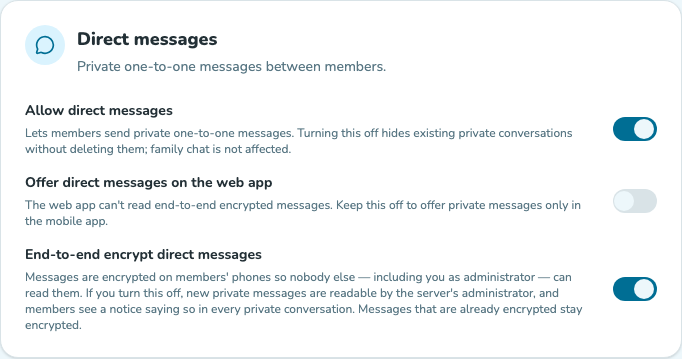
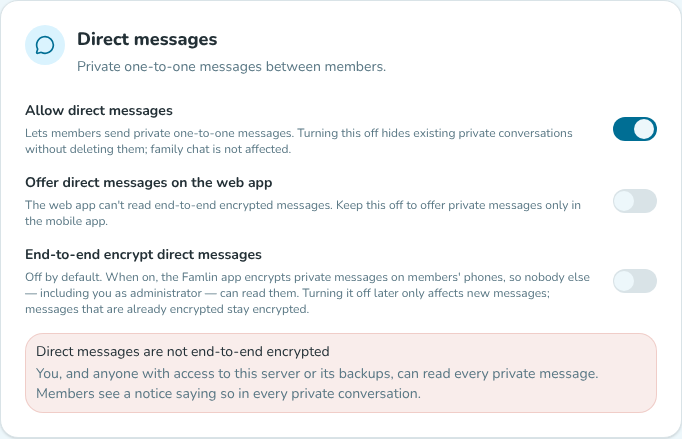
feat(dm): make end-to-end encryption opt-in and spell out the risks
The e2eDirectMessagesEnabled server setting now defaults to off.

- Admin: turning it on asks for confirmation, and the settings card always
  shows the risk of the current choice (off: the admin and anyone with server
  or backup access can read DMs; on: lost keys mean lost messages, nobody can
  recover them or moderate them).
- Mobile/web: stronger copy for the "not encrypted" notice, the encrypted
  banner and the backup reminder.
- Docs: admin settings (new screenshot), chat guide, security model and
  backend reference updated for the new default.

Claude-Session: https://claude.ai/code/session_01NEXBv94Gz5s2sL8YUyV1rP

diff --git a/backend/admin/src/components/ServerSettingsPage.tsx b/backend/admin/src/components/ServerSettingsPage.tsx
@@ -10,6 +10,8 @@ import { LANGUAGE_NAMES, SUPPORTED_LANGUAGES, type SupportedLanguage } from '../
 import { Icon, type IconName } from './Icon'
 import { BrandingSection } from './BrandingSection'
 import { SettingToggle } from '@famlin/ui/common/setting-toggle'
+import { ConfirmDialog } from '@famlin/ui/common/confirm-dialog'
+import { Alert, AlertDescription, AlertTitle } from '@famlin/ui/alert'
 import { SettingsCard } from './settings/SettingsCard'
 import { SettingsSaveBar } from './settings/SettingsSaveBar'
 import { useSettingsForm } from './settings/useSettingsForm'
@@ -35,6 +37,8 @@ export function ServerSettingsPage() {
   const [activeSection, setActiveSection] = useState<SectionId>(
     requested === 'branding' || requested === 'access' ? requested : 'general'
   )
+  // Turning end-to-end encryption on is confirmed first: lost keys mean lost messages.
+  const [confirmE2e, setConfirmE2e] = useState(false)
 
   if (loadError)
     return (
@@ -224,7 +228,43 @@ export function ServerSettingsPage() {
                   hint={t('serverSettings.e2eDirectMessagesEnabledHint')}
                   checked={form.e2eDirectMessagesEnabled}
                   disabled={!form.directMessagesEnabled}
-                  onCheckedChange={(checked) => updateField('e2eDirectMessagesEnabled', checked)}
+                  onCheckedChange={(checked) =>
+                    checked ? setConfirmE2e(true) : updateField('e2eDirectMessagesEnabled', false)
+                  }
+                />
+                {form.directMessagesEnabled && (
+                  <Alert
+                    className={
+                      form.e2eDirectMessagesEnabled
+                        ? 'border-warning/20 bg-warning/10'
+                        : 'border-destructive/20 bg-destructive/10'
+                    }
+                  >
+                    <AlertTitle>
+                      {t(
+                        form.e2eDirectMessagesEnabled
+                          ? 'serverSettings.e2eOnRiskTitle'
+                          : 'serverSettings.e2eOffRiskTitle'
+                      )}
+                    </AlertTitle>
+                    <AlertDescription>
+                      {t(
+                        form.e2eDirectMessagesEnabled ? 'serverSettings.e2eOnRiskBody' : 'serverSettings.e2eOffRiskBody'
+                      )}
+                    </AlertDescription>
+                  </Alert>
+                )}
+                <ConfirmDialog
+                  open={confirmE2e}
+                  onOpenChange={(open) => !open && setConfirmE2e(false)}
+                  title={t('serverSettings.e2eConfirmTitle')}
+                  description={t('serverSettings.e2eConfirmBody')}
+                  confirmLabel={t('serverSettings.e2eConfirm')}
+                  cancelLabel={t('common.cancel')}
+                  onConfirm={() => {
+                    updateField('e2eDirectMessagesEnabled', true)
+                    setConfirmE2e(false)
+                  }}
                 />
               </SettingsCard>
             )}

diff --git a/backend/tests/direct-message-settings.test.ts b/backend/tests/direct-message-settings.test.ts
@@ -36,7 +36,7 @@ beforeAll(async () => {
 })
 
 afterEach(async () => {
-  await patch({ directMessagesEnabled: true, directMessagesOnWeb: false, e2eDirectMessagesEnabled: true })
+  await patch({ directMessagesEnabled: true, directMessagesOnWeb: false, e2eDirectMessagesEnabled: false })
 })
 
 afterAll(async () => {
@@ -45,12 +45,12 @@ afterAll(async () => {
 
 describe('direct message settings', () => {
   it('has the documented defaults and round-trips through PATCH', async () => {
-    expect(await info()).toMatchObject({ directMessages: { enabled: true, web: false, encryption: true } })
+    expect(await info()).toMatchObject({ directMessages: { enabled: true, web: false, encryption: false } })
     const res = await patch({ directMessagesOnWeb: true })
     expect(res.statusCode).toBe(200)
     expect(res.json()).toMatchObject({ directMessagesEnabled: true, directMessagesOnWeb: true })
     const read = await app.inject({ method: 'GET', url: '/api/admin/settings', headers: authHeader(admin) })
-    expect(read.json()).toMatchObject({ directMessagesOnWeb: true, e2eDirectMessagesEnabled: true })
+    expect(read.json()).toMatchObject({ directMessagesOnWeb: true, e2eDirectMessagesEnabled: false })
   })
 
   it('survives export/restore', () => {
@@ -60,13 +60,17 @@ describe('direct message settings', () => {
   })
 
   it.each([
-    [{}, ['directMessages', 'e2eDirectMessages'], { enabled: true, web: false, encryption: true }],
+    [{}, ['directMessages'], { enabled: true, web: false, encryption: false }],
     [
-      { directMessagesOnWeb: true },
+      { e2eDirectMessagesEnabled: true },
+      ['directMessages', 'e2eDirectMessages'],
+      { enabled: true, web: false, encryption: true },
+    ],
+    [
+      { directMessagesOnWeb: true, e2eDirectMessagesEnabled: true },
       ['directMessages', 'e2eDirectMessages'],
       { enabled: true, web: true, encryption: true },
     ],
-    [{ e2eDirectMessagesEnabled: false }, ['directMessages'], { enabled: true, web: false, encryption: false }],
     [
       { directMessagesEnabled: false, directMessagesOnWeb: true },
       [],

diff --git a/backend/tests/e2e-dm.test.ts b/backend/tests/e2e-dm.test.ts
@@ -6,6 +6,7 @@ import path from 'path'
 import { prisma } from '../src/db.js'
 import { uploadsDir } from '../src/config.js'
 import { canReadUpload } from '../src/services/uploads.js'
+import { invalidateSettingsCache } from '../src/services/settings.js'
 import { buildTestApp, createUser, createGroup, addMember, authHeader } from './helpers.js'
 
 const b64 = (n: number, fill = 1) => Buffer.alloc(n, fill).toString('base64')
@@ -79,6 +80,13 @@ async function uploadEncrypted(user: typeof alice, data = Buffer.from('opaque-by
 
 beforeAll(async () => {
   app = await buildTestApp()
+  // End-to-end encryption is opt-in per server (off by default).
+  await prisma.setting.upsert({
+    where: { key: 'e2eDirectMessagesEnabled' },
+    create: { key: 'e2eDirectMessagesEnabled', value: 'true' },
+    update: { value: 'true' },
+  })
+  invalidateSettingsCache()
   alice = await createUser({ name: 'Alice' })
   bob = await createUser({ name: 'Bob' })
   carol = await createUser({ name: 'Carol' })

diff --git a/backend/src/services/settings.ts b/backend/src/services/settings.ts
@@ -240,7 +240,7 @@ async function loadAllSettings(): Promise<ServerSettings> {
     updateCheckEnabled: parseValue('updateCheckEnabled', map.get('updateCheckEnabled') ?? 'true'),
     directMessagesEnabled: parseValue('directMessagesEnabled', map.get('directMessagesEnabled') ?? 'true'),
     directMessagesOnWeb: parseValue('directMessagesOnWeb', map.get('directMessagesOnWeb') || 'false'),
-    e2eDirectMessagesEnabled: parseValue('e2eDirectMessagesEnabled', map.get('e2eDirectMessagesEnabled') ?? 'true'),
+    e2eDirectMessagesEnabled: parseValue('e2eDirectMessagesEnabled', map.get('e2eDirectMessagesEnabled') ?? 'false'),
     backupIncludeMedia: parseValue('backupIncludeMedia', map.get('backupIncludeMedia') ?? 'true'),
     backupEnabled: parseValue('backupEnabled', map.get('backupEnabled') || 'false'),
     backupSchedule: parseValue('backupSchedule', map.get('backupSchedule') || 'daily'),

diff --git a/web/src/pages/__tests__/ChatPage.directMessages.test.tsx b/web/src/pages/__tests__/ChatPage.directMessages.test.tsx
@@ -1064,7 +1064,9 @@ describe('server direct-message policy', () => {
 
     await userEvent.click(await screen.findByRole('button', { name: /Sophie/ }))
 
-    expect(await screen.findByText("Encryption is turned off by this server's administrator.")).toBeInTheDocument()
+    expect(
+      await screen.findByText(/This server's administrator, and anyone with access to the server/)
+    ).toBeInTheDocument()
     expect(screen.queryByText(/Messages sent from the web are not end-to-end encrypted/)).not.toBeInTheDocument()
   })
 

diff --git a/docs/developers/backend-reference.md b/docs/developers/backend-reference.md
@@ -34,7 +34,7 @@ Detailed backend implementation notes for contributors. Start with [Architecture
 | `invite-landing.ts` | `/invite/:token` (no `/api` prefix) | Public server-rendered HTML page a shared invite link opens; hands off to the app via `famlin://invite/:token?server=...`. Matches the app's design (logo, teal palette), is translated using the server's `defaultLanguage` setting, and shows App Store/Google Play buttons if `appStoreUrl`/`playStoreUrl` are set |
 | `landing.ts` | `/` (no `/api` prefix) | **Fallback only**: public server-rendered HTML landing page confirming the server is running, styled to match the invite landing page (shared HTML shell in `utils/html-page.ts`). Registered only when there is no `dist/web` build — normally the member-facing web app (`web/`) is served at `/` instead, with an SPA `index.html` fallback for client-side GET routes that aren't `/api/*`, `/uploads/*`, or `/admin*` (see the web-serving block in `app.ts`) |
 
-**Direct messages** extend `GET`/`POST /api/chat` without changing the installed family-chat routes. `GET /people` lists deduplicated people in at least one of the caller's current families. `POST /conversations` accepts a `participantIds` array with one member for a `PRIVATE` pair and returns the same canonical conversation for either participant under concurrent/repeated requests. `GET /conversations` combines enabled family chats with currently accessible private pairs; summaries are newest-activity first and redact unsupported encrypted inbox previews. `/conversations/unread`, `/conversations/:id/messages`, `/messages` and `/read` provide per-conversation state. Private access always requires explicit participation **and** at least one still-shared family; nonparticipants and pairs that no longer share a family receive 404, and admin status is never a bypass. Private messages accept `replyToMessageId` only for a target in that same conversation; unknown and cross-conversation ids return the same 404 without exposing whether a target exists. Private attachments must be fresh, caller-owned uploads and are scoped atomically to the conversation. Family reply/read/delete behavior remains unchanged. The server advertises `directMessages` in `/api/auth/server-info`. Three admin settings (`directMessagesEnabled` default on, `directMessagesOnWeb` default off, `e2eDirectMessagesEnabled` default on; all in `RESTORABLE_SETTING_KEYS`) shape it. `/server-info` lists the `directMessages` feature only while DMs are enabled and `e2eDirectMessages` only while encryption is also enabled (`activeServerFeatures()` in `serverFeatures.ts`), and carries `directMessages: {enabled, web, encryption}` (`web` and `encryption` are false while DMs are off). With DMs off, `/chat/people`, `POST /conversations` and every PRIVATE-conversation messages/read/encryption/delete route (including admins' delete) return 403 `errors.directMessagesDisabled`, while `GET /conversations` and `/conversations/unread` omit private conversations; nothing is deleted. With encryption off, a `v1` message returns 403 `errors.e2eDirectMessagesDisabled` and plaintext still works; existing encrypted messages are still served. `directMessagesOnWeb` is a client hint only and is deliberately not enforced.
+**Direct messages** extend `GET`/`POST /api/chat` without changing the installed family-chat routes. `GET /people` lists deduplicated people in at least one of the caller's current families. `POST /conversations` accepts a `participantIds` array with one member for a `PRIVATE` pair and returns the same canonical conversation for either participant under concurrent/repeated requests. `GET /conversations` combines enabled family chats with currently accessible private pairs; summaries are newest-activity first and redact unsupported encrypted inbox previews. `/conversations/unread`, `/conversations/:id/messages`, `/messages` and `/read` provide per-conversation state. Private access always requires explicit participation **and** at least one still-shared family; nonparticipants and pairs that no longer share a family receive 404, and admin status is never a bypass. Private messages accept `replyToMessageId` only for a target in that same conversation; unknown and cross-conversation ids return the same 404 without exposing whether a target exists. Private attachments must be fresh, caller-owned uploads and are scoped atomically to the conversation. Family reply/read/delete behavior remains unchanged. The server advertises `directMessages` in `/api/auth/server-info`. Three admin settings (`directMessagesEnabled` default on, `directMessagesOnWeb` default off, `e2eDirectMessagesEnabled` default off — opt-in, the admin UI confirms the key-loss risk before enabling; all in `RESTORABLE_SETTING_KEYS`) shape it. `/server-info` lists the `directMessages` feature only while DMs are enabled and `e2eDirectMessages` only while encryption is also enabled (`activeServerFeatures()` in `serverFeatures.ts`), and carries `directMessages: {enabled, web, encryption}` (`web` and `encryption` are false while DMs are off). With DMs off, `/chat/people`, `POST /conversations` and every PRIVATE-conversation messages/read/encryption/delete route (including admins' delete) return 403 `errors.directMessagesDisabled`, while `GET /conversations` and `/conversations/unread` omit private conversations; nothing is deleted. With encryption off, a `v1` message returns 403 `errors.e2eDirectMessagesDisabled` and plaintext still works; existing encrypted messages are still served. `directMessagesOnWeb` is a client hint only and is deliberately not enforced.
 
 Services live in `backend/src/services/` (`settings.ts`, `notifications.ts`, `invites.ts`, `users.ts`, `groups.ts`, `posts.ts`, `comments.ts`, `reactions.ts`, `onThisDay.ts`, `pagination.ts`, `apiTokens.ts`, plus three extension-point directories: the `media/` provider directory with `photoTimeline.ts` (in-memory merge of album + post photos with per-album caching) and `personFilter.ts` (shared person-filter logic); `notificationChannels/`; and `postTypes/` — see [Media integrations](#media-integrations), [Notifications](#notifications), and [Custom post types](#custom-post-types)). `src/events.ts` is the typed in-process domain event bus (`post.created`, `comment.created`, `reaction.added`, `chat.created`): routes emit facts after their write commits, and subscribers in `src/subscribers/` (registered idempotently by `buildApp()`) decide what those facts mean — every handler runs fire-and-forget and error-trapped, so a broken subscriber can never fail or slow the emitting request. The notifications subscriber (`src/subscribers/notifications.ts`) owns all "who gets told what" policy; routes know nothing about notifications. `src/jobs/onThisDay.ts` runs daily and `src/jobs/newAssets.ts` runs hourly (minute 15, both via `node-cron`, scheduled in `server.ts`, not `app.ts`, so the test suite's `buildApp()` never triggers them): onThisDay sends each group a notification about posts made on that day in a previous year, while newAssets diffs linked albums against their provider and either notifies the group (MANUAL mode) or auto-creates a post (AUTO mode) when new assets appear. Every job runs through `recordJobRun()` (`services/jobRuns.ts`), which upserts that job's single `JobStatus` row (start, finish, result, sanitized error with the DB password redacted, duration, optional details) for the admin status panel.
 

diff --git a/docs/docs/admin-configuration.md b/docs/docs/admin-configuration.md
@@ -263,7 +263,16 @@ Members can send each other private one-to-one messages. Three settings in `/adm
 
 - **Allow direct messages** (default: on). Lets members send private one-to-one messages. Turning it off hides existing private conversations without deleting them, and every private-message action is refused until you turn it back on; the data is kept. Family chat is not affected. Turn it off if your family only wants the shared group chat.
 - **Offer direct messages on the web app** (default: off). The web app can't read end-to-end encrypted messages, so by default only the mobile app offers private messages. Turn it on if you want the web app to offer them too (those web messages are then not encrypted). This is a hint the apps follow, not access control: the server can't tell its clients apart, so it doesn't block anything itself.
-- **End-to-end encrypt direct messages** (default: on). Messages are encrypted on members' phones so nobody else, including you as administrator, can read them. If you turn this off, new private messages are readable by the server's administrator, and members see a notice saying so in every private conversation. Messages that are already encrypted stay encrypted and readable by their participants. Leave it on unless you have a specific reason, such as legal or archiving requirements.
+- **End-to-end encrypt direct messages** (default: off). When on, the mobile app encrypts private messages on members' phones so nobody else, including you as administrator, can read them. Turning it on asks you to confirm, because it is a trade-off either way (see below). Turning it off again only affects new messages: messages that are already encrypted stay encrypted and readable by their participants.
+
+:::danger Both choices carry a risk
+
+- **Encryption off (the default):** private messages are stored readable on the server. You, and anyone who can get at the server, its database or its backups, can read every direct message. Members see a notice saying so in every private conversation.
+- **Encryption on:** only members' phones hold the keys. If a member loses their phone without a keychain backup (iCloud Keychain or Google backup) or a recovery code, their encrypted messages **cannot be recovered** — not by you, and not from a server backup or restore. You also can't read or moderate encrypted messages.
+
+The settings page shows the risk of the current choice under the switch.
+
+:::
 
 The last two switches are greyed out while direct messages are off. Admin content moderation never shows private messages, and the [data export](./managing-users-and-content.md) is unchanged by these settings. They are saved in backups and come back with a restore.
 

diff --git a/docs/docs/security.md b/docs/docs/security.md
@@ -158,9 +158,9 @@ A member export includes that member's own latest device diagnostics and the dia
 
 ### End-to-end encrypted direct messages
 
-Private one-to-one messages are encrypted on the sender's device and decrypted on the recipient's, so the server (and anyone with access to it, including its administrator and its backups) stores only ciphertext. Encryption is on by default for each private conversation, and either person can opt a conversation out; that choice is always shown in the conversation as a visible notice and never happens silently. Each message records whether it is encrypted.
+Private one-to-one messages are encrypted on the sender's device and decrypted on the recipient's, so the server (and anyone with access to it, including its administrator and its backups) stores only ciphertext. Once the administrator enables it for the server (see below), encryption is on by default for each private conversation, and either person can opt a conversation out; that choice is always shown in the conversation as a visible notice and never happens silently. Each message records whether it is encrypted.
 
-An administrator can turn encryption off for new messages (Server settings → Direct messages); members are then told in every private conversation that new messages are readable by the server's administrator, and already encrypted messages stay encrypted.
+End-to-end encryption is **opt-in per server and off by default** (Server settings → Direct messages). While it is off, private messages are stored as plaintext: the administrator and anyone with access to the server, its database or its backups can read them, and members are told so in every private conversation. Turning it on is confirmed in the admin UI, because nobody (including the administrator or a backup restore) can recover encrypted messages for a member who loses their keys. Turning it off again only affects new messages; already encrypted messages stay encrypted.
 
 Each member has one key identity, created automatically the first time they open a direct message in the app. It reaches their other devices in three ways:
 
